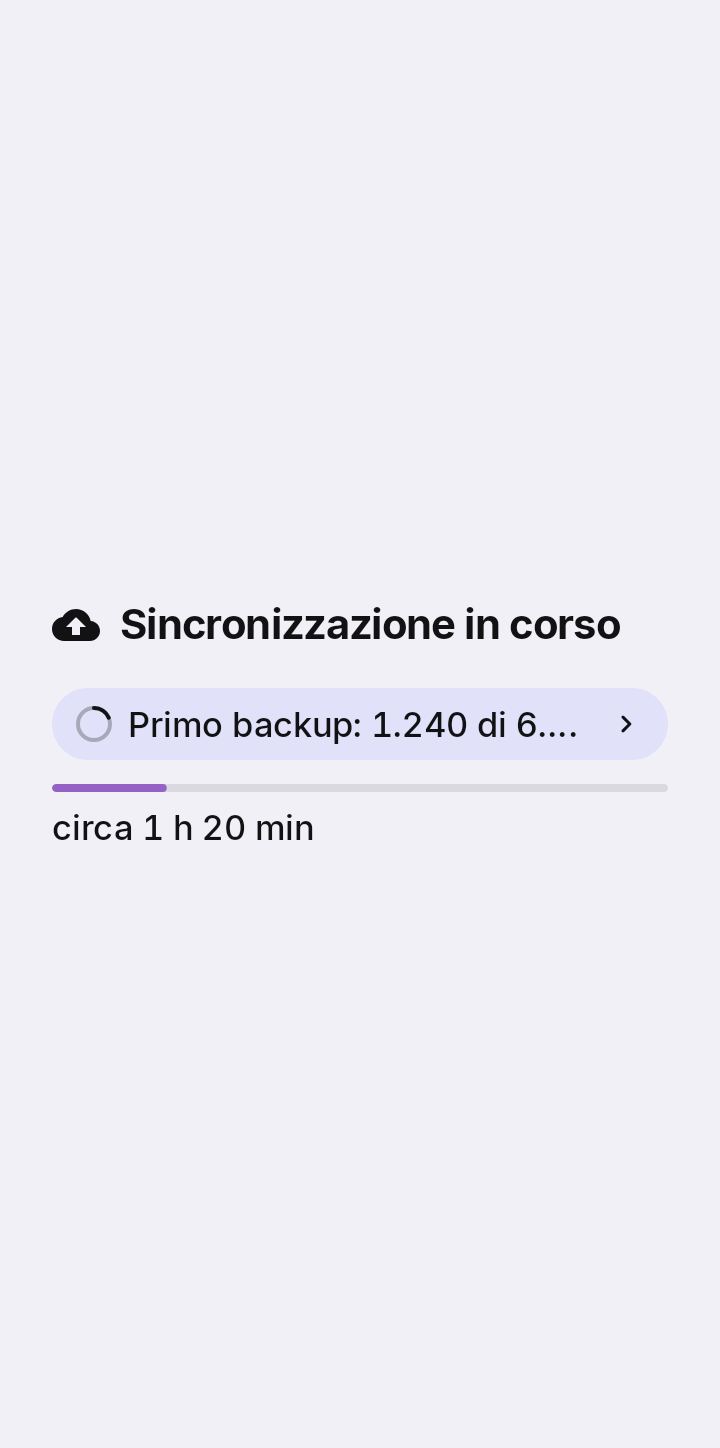
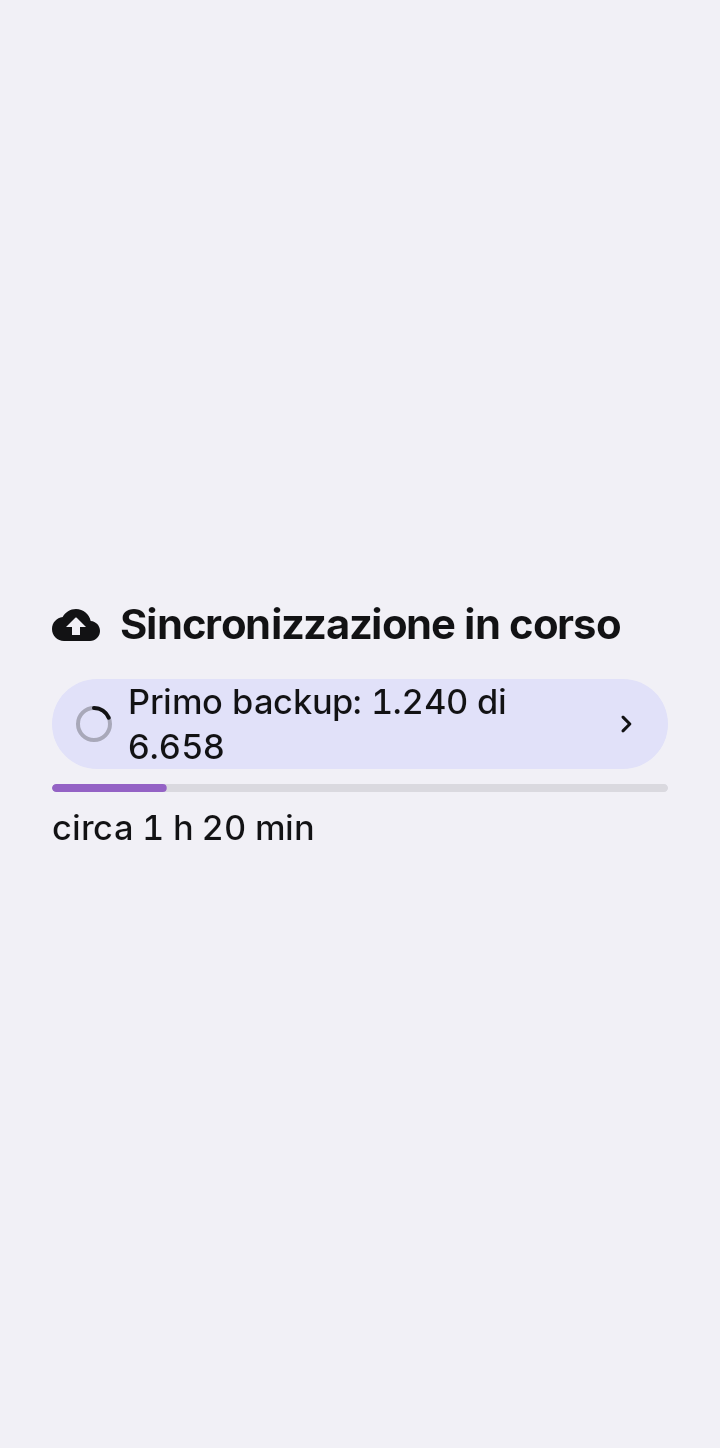
Pop-up della nuvola: la capsula va a capo fra le parole, TalkBack legge il dettaglio una volta sola, frasi con il punto (GF-24, K7)
- GalleryFooterPill: la frase della capsula sta su due righe al massimo, non una (a 1,3x «Primo backup: 1.240 di 6.658» finiva «…di 6.…»): va a capo fra le
  parole, mai dentro un numero, e solo oltre la seconda riga finisce con i puntini.
- TalkBack: la capsula dice gia' «etichetta. dettaglio» (la sua descrizione); il dettaglio scritto sotto (CloudNote nel pop-up, GalleryFooterDetail sotto una
  capsula del piede) si vede ma e' nascosto a TalkBack (hideFromAccessibility), che non lo rilegge piu'.
- Frasi di dettaglio dei lavori fermi: tutte con il punto finale, come «Android ha fermato il lavoro: riprende da solo.», i dettagli dei problemi del piede
  (backup_footer_*_detail) e quelli della pausa; «Risparmio energetico acceso: riprende quando lo spegni.» e «File occupato sul NAS, riprovo tra poco.» ora lo hanno.
  Le attese brevi («Attesa carica», «Al prossimo giro») restano etichette, senza punto. BackupFooterTest aggiornato (descriveva la forma vecchia).
- Prove (LibraryCloudTextFitTest, rossa sul codice di prima: TalkBack a entrambe le scale e il totale a 1,3x): a 360 dp, 1,0x e 1,3x, la frase del primo backup non
  e' tagliata ne' spezzata dentro un numero (al massimo due righe), e il dettaglio e' nascosto a TalkBack mentre la capsula lo dice.
- Screenshot: 5-P5/pannello-nuvola-piede-primo-backup-*-telefono-testo-grande riregistrati.

Changed region(s): [[0.1833, 0.4662, 0.4889, 0.5283], [0.5194, 0.4662, 0.7639, 0.5283]]

diff --git a/feature-library/src/test/kotlin/dev/pampa/mycloudgallery/feature/library/library/LibraryCloudTextFitTest.kt b/feature-library/src/test/kotlin/dev/pampa/mycloudgallery/feature/library/library/LibraryCloudTextFitTest.kt
@@ -1,0 +1,129 @@
+package dev.pampa.mycloudgallery.feature.library.library
+
+import android.app.Application
+import androidx.compose.foundation.layout.Box
+import androidx.compose.foundation.layout.PaddingValues
+import androidx.compose.foundation.layout.fillMaxSize
+import androidx.compose.runtime.CompositionLocalProvider
+import androidx.compose.ui.Modifier
+import androidx.compose.ui.platform.LocalDensity
+import androidx.compose.ui.semantics.SemanticsActions
+import androidx.compose.ui.semantics.SemanticsProperties
+import androidx.compose.ui.semantics.getOrNull
+import androidx.compose.ui.test.junit4.v2.createComposeRule
+import androidx.compose.ui.test.onAllNodesWithContentDescription
+import androidx.compose.ui.test.onAllNodesWithText
+import androidx.compose.ui.test.performClick
+import androidx.compose.ui.text.TextLayoutResult
+import androidx.compose.ui.unit.Density
+import com.google.common.truth.Truth.assertThat
+import com.google.common.truth.Truth.assertWithMessage
+import dev.antigravity.fluidengine.foundation.EngineSettings
+import dev.antigravity.fluidengine.foundation.ThemeMode
+import dev.pampa.mycloudgallery.core.designsystem.chrome.GalleryTabBarDefaults
+import dev.pampa.mycloudgallery.core.designsystem.theme.MyCloudGalleryTheme
+import dev.pampa.mycloudgallery.core.library.contract.LibraryBackupStatus
+import dev.pampa.mycloudgallery.feature.library.grid.RegisterComponentActivity
+import dev.pampa.mycloudgallery.feature.library.library.testing.syntheticLibraryState
+import org.junit.Rule
+import org.junit.Test
+import org.junit.rules.RuleChain
+import org.junit.runner.RunWith
+import org.robolectric.ParameterizedRobolectricTestRunner
+import org.robolectric.annotation.Config
+import org.robolectric.annotation.GraphicsMode
+
+/**
+ * GF-24 (review della beta) sul pop-up della nuvola, a 360 dp (il Galaxy S25 dell'utente), a testo normale e a 1,3x:
+ *  - la capsula del lavoro in corso non taglia il totale («Primo backup: 1.240 di 6.…»): se non entra su una riga va a capo **fra le parole**, mai dentro un numero, e
+ *    solo oltre la seconda riga finirebbe con i puntini;
+ *  - TalkBack legge il dettaglio una volta sola: la capsula dice «etichetta. dettaglio», e il testo a parte sotto (che si vede) non lo rilegge.
+ */
+@RunWith(ParameterizedRobolectricTestRunner::class)
+@GraphicsMode(GraphicsMode.Mode.NATIVE)
+@Config(application = Application::class, qualifiers = "w360dp-h780dp-xhdpi")
+internal class LibraryCloudTextFitTest(private val fontScale: Float) {
+
+  val composeRule = createComposeRule()
+
+  @get:Rule
+  val rules: RuleChain = RuleChain.outerRule(RegisterComponentActivity()).around(composeRule)
+
+  private fun openPopup(backup: LibraryBackupStatus) {
+    val state = syntheticLibraryState(backup = backup)
+    composeRule.setContent {
+      MyCloudGalleryTheme(settings = EngineSettings(themeMode = ThemeMode.LIGHT)) {
+        val density = LocalDensity.current
+        CompositionLocalProvider(LocalDensity provides Density(density.density, fontScale)) {
+          Box(modifier = Modifier.fillMaxSize()) {
+            LibraryTab(
+              contentPadding = PaddingValues(bottom = GalleryTabBarDefaults.ContentInset),
+              backdropOut = {},
+              onOpenViewer = {},
+              onOpenSettings = {},
+              state = state,
+              network = LibraryNetworkStatus(severity = LibraryNetworkSeverity.Fine, label = "In casa", detail = "NAS collegato"),
+            )
+          }
+        }
+      }
+    }
+    settle()
+    composeRule.onAllNodesWithContentDescription("Stato della sincronizzazione", substring = true)[0].performClick()
+    settle()
+  }
+
+  private fun settle() {
+    composeRule.waitForIdle()
+    composeRule.mainClock.advanceTimeBy(SettleMillis)
+    composeRule.waitForIdle()
+  }
+
+  private fun layoutsOf(text: String): List<TextLayoutResult> =
+    composeRule.onAllNodesWithText(text, useUnmergedTree = true).fetchSemanticsNodes().map { node ->
+      val results = ArrayList<TextLayoutResult>()
+      node.config.getOrNull(SemanticsActions.GetTextLayoutResult)?.action?.invoke(results)
+      results.single()
+    }
+
+  @Test
+  fun ilTotaleDelPrimoBackupNonSiTagliaENonSiSpezzaDentroUnNumero() {
+    openPopup(LibraryBackupStatus.FirstBackup(done = 1_240, total = 6_658, etaMillis = 80 * 60_000L))
+    val layouts = layoutsOf("Primo backup: 1.240 di 6.658")
+    assertWithMessage("«Primo backup: 1.240 di 6.658» nel pop-up (testo ${fontScale}x)").that(layouts).hasSize(1)
+    val layout = layouts.single()
+    val text = layout.layoutInput.text.text
+    assertWithMessage("la frase finisce con i puntini (testo ${fontScale}x, ${layout.lineCount} righe)").that((0 until layout.lineCount).any { layout.isLineEllipsized(it) }).isFalse()
+    assertWithMessage("al massimo due righe (testo ${fontScale}x)").that(layout.lineCount).isAtMost(2)
+    for (line in 1 until layout.lineCount) {
+      val start = layout.getLineStart(line)
+      assertWithMessage("la riga $line comincia dentro una parola o un numero («${text.substring(0, start)}|${text.substring(start)}»)").that(text[start - 1].isWhitespace()).isTrue()
+    }
+  }
+
+  @Test
+  fun ilDettaglioLoLeggeTalkBackUnaVoltaSola() {
+    openPopup(LibraryBackupStatus.FirstBackup(done = 1_240, total = 6_658, etaMillis = 80 * 60_000L))
+    val detail = "circa 1 h 20 min"
+    // Il testo a parte c'e' e si vede, ma e' nascosto a TalkBack...
+    val texts = composeRule.onAllNodesWithText(detail, useUnmergedTree = true).fetchSemanticsNodes()
+    assertThat(texts).isNotEmpty()
+    for (node in texts) {
+      assertWithMessage("«$detail» e' letto da TalkBack due volte: il testo a parte non e' nascosto").that(node.config.contains(SemanticsProperties.HideFromAccessibility)).isTrue()
+    }
+    // ... e la capsula lo dice insieme alla sua etichetta.
+    composeRule.onAllNodesWithContentDescription("Primo backup: 1.240 di 6.658. $detail").assertCountAtLeast1()
+  }
+
+  private fun androidx.compose.ui.test.SemanticsNodeInteractionCollection.assertCountAtLeast1() {
+    assertThat(fetchSemanticsNodes()).isNotEmpty()
+  }
+
+  companion object {
+    @JvmStatic
+    @ParameterizedRobolectricTestRunner.Parameters(name = "testo={0}x")
+    fun data(): List<Array<Any>> = listOf(arrayOf<Any>(1f), arrayOf<Any>(1.3f))
+
+    const val SettleMillis = 1_500L
+  }
+}

diff --git a/core-designsystem/src/main/kotlin/dev/pampa/mycloudgallery/core/designsystem/design/GalleryFooterStatus.kt b/core-designsystem/src/main/kotlin/dev/pampa/mycloudgallery/core/designsystem/design/GalleryFooterStatus.kt
@@ -24,6 +24,7 @@ import androidx.compose.ui.graphics.Color
 import androidx.compose.ui.graphics.vector.ImageVector
 import androidx.compose.ui.semantics.Role
 import androidx.compose.ui.semantics.contentDescription
+import androidx.compose.ui.semantics.hideFromAccessibility
 import androidx.compose.ui.semantics.semantics
 import androidx.compose.ui.text.font.FontWeight
 import androidx.compose.ui.text.style.TextAlign
@@ -121,7 +122,9 @@ fun GalleryFooterPill(note: GalleryFooterNote, onClick: (() -> Unit)?, modifier:
         text = note.label,
         style = MaterialTheme.typography.labelMedium.copy(fontFeatureSettings = "tnum"),
         color = text,
-        maxLines = 1,
+        // GF-24: due righe al massimo, non una (a 1,3x la frase di un lavoro con i suoi numeri, «Primo backup: 1.240 di 6.658», finiva «…di 6.…»): va a capo
+        // fra le parole, mai dentro un numero, e solo oltre la seconda riga finisce con i puntini.
+        maxLines = LabelMaxLines,
         overflow = TextOverflow.Ellipsis,
         modifier = Modifier.weight(1f, fill = false),
       )
@@ -147,7 +150,10 @@ fun GalleryFooterEntry(
   }
 }
 
-/** Il dettaglio sotto la capsula: la barra dell'avanzamento (se c'e') e la frase, centrati, larghi al piu' una colonna. */
+/**
+ * Il dettaglio sotto la capsula: la barra dell'avanzamento (se c'e') e la frase, centrati, larghi al piu' una colonna. La frase la dice gia' la capsula
+ * ([GalleryFooterPill]: etichetta e dettaglio in una descrizione sola): qui si vede ma TalkBack non la rilegge (GF-24).
+ */
 @Composable
 fun GalleryFooterDetail(note: GalleryFooterNote, modifier: Modifier = Modifier, alignment: Alignment.Horizontal = Alignment.CenterHorizontally) {
   if (note.detail == null && note.progress == null) return
@@ -165,6 +171,7 @@ fun GalleryFooterDetail(note: GalleryFooterNote, modifier: Modifier = Modifier, 
         style = MaterialTheme.typography.bodySmall.copy(fontFeatureSettings = "tnum", fontWeight = FontWeight.Medium),
         color = MaterialTheme.colorScheme.onSurfaceVariant,
         textAlign = if (alignment == Alignment.Start) TextAlign.Start else TextAlign.Center,
+        modifier = Modifier.semantics { hideFromAccessibility() },
       )
     }
   }
@@ -200,6 +207,9 @@ internal fun galleryFooterStyle(tone: GalleryFooterTone, scheme: ColorScheme): F
   val s = galleryStatusStyle(status, scheme)
   return FooterStyle(container = s.container, text = s.text, glyph = s.glyph)
 }
+
+/** Le righe della frase di una capsula: due, per andare a capo a testo grande senza spezzare un numero (GF-24). */
+private const val LabelMaxLines = 2
 
 private val PillHeight: Dp = 36.dp
 private val PillPaddingH: Dp = 12.dp

diff --git a/feature-library/src/main/kotlin/dev/pampa/mycloudgallery/feature/library/library/LibraryCloud.kt b/feature-library/src/main/kotlin/dev/pampa/mycloudgallery/feature/library/library/LibraryCloud.kt
@@ -28,6 +28,7 @@ import androidx.compose.ui.graphics.vector.ImageVector
 import androidx.compose.ui.platform.testTag
 import androidx.compose.ui.res.stringResource
 import androidx.compose.ui.semantics.heading
+import androidx.compose.ui.semantics.hideFromAccessibility
 import androidx.compose.ui.semantics.semantics
 import androidx.compose.ui.text.font.FontWeight
 import androidx.compose.ui.unit.Dp
@@ -400,6 +401,8 @@ private fun CloudNote(note: GalleryFooterNote, onClick: (() -> Unit)?) {
         text = detail,
         style = MaterialTheme.typography.bodySmall.copy(fontFeatureSettings = "tnum", fontWeight = FontWeight.Medium),
         color = MaterialTheme.colorScheme.onSurface,
+        // GF-24: la capsula sopra dice gia' etichetta e dettaglio (la sua descrizione e' «etichetta. dettaglio»): TalkBack non lo rilegge dal testo a parte.
+        modifier = Modifier.semantics { hideFromAccessibility() },
       )
     }
   }

diff --git a/feature-library/src/test/kotlin/dev/pampa/mycloudgallery/feature/library/library/BackupFooterTest.kt b/feature-library/src/test/kotlin/dev/pampa/mycloudgallery/feature/library/library/BackupFooterTest.kt
@@ -147,10 +147,10 @@ class BackupFooterTest {
       LibraryBackupWait.NIGHT_WINDOW to "Attesa della notte",
       LibraryBackupWait.BATTERY to "Attesa batteria",
       // FAB-4: il risparmio energetico non e' la batteria bassa e ha la sua frase.
-      LibraryBackupWait.POWER_SAVER to "Risparmio energetico acceso: riprende quando lo spegni",
+      LibraryBackupWait.POWER_SAVER to "Risparmio energetico acceso: riprende quando lo spegni.",
       LibraryBackupWait.NAS to "Attesa NAS",
       LibraryBackupWait.NEXT_RUN to "Al prossimo giro",
-      LibraryBackupWait.NAS_BUSY to "File occupato sul NAS, riprovo tra poco",
+      LibraryBackupWait.NAS_BUSY to "File occupato sul NAS, riprovo tra poco.",
       LibraryBackupWait.OTHER to "Attesa delle regole",
     )
     assertThat(phrases.keys).containsExactlyElementsIn(LibraryBackupWait.entries)
